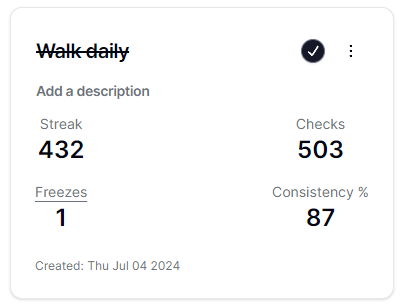
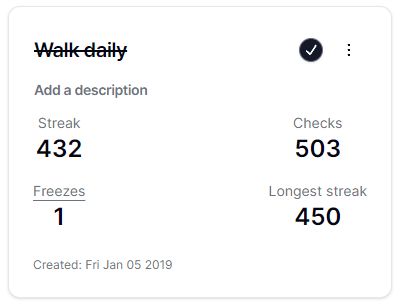
Upload files

diff --git a/src/lib/utils.ts b/src/lib/utils.ts
@@ -1,14 +1,5 @@
-import { GraphType, HabitType } from "@/data/HabitType";
-import { UserType } from "@/data/userType";
 import { type ClassValue, clsx } from "clsx";
-import {
-	differenceInDays,
-	differenceInHours,
-	format,
-	isEqual,
-	max,
-	parse,
-} from "date-fns";
+import { differenceInHours, format, parse } from "date-fns";
 import { twMerge } from "tailwind-merge";
 
 export function cn(...inputs: ClassValue[]) {
@@ -51,7 +42,6 @@ export function getMonthAndDayOfWeek(dayNumber: number) {
  */
 export function getDateByDayNumber(dayNumber: number) {
 	const parsedDate = parse(dayNumber.toString(), "DDD", new Date());
-	console.log(parsedDate);
 	return parsedDate;
 }
 
@@ -95,26 +85,6 @@ export function diffInDaysFromNow(date: Date) {
 	return Math.abs(diff);
 }
 
-/**
- * Get absolute difference a given date and today. Ceil the result for consistency calculation
- * @param givenDate
- * @returns
- */
-export function daysBetweenDatesAbsolute(givenDate: Date) {
-	const start = getDayOfYear();
-
-	const end = getDayOfYear(givenDate);
-
-	return start - end;
-}
-
-export function diffInDaysBetween(dateLeft: Date, dateRight: Date) {
-	// const diff = differenceInDays(dateLeft, dateRight);
-	const diff = Math.trunc(differenceInHours(dateLeft, dateRight) / 24) | 0;
-
-	return Math.abs(diff);
-}
-
 export function getCurrentDate() {
 	const newDate = new Date();
 	newDate.setHours(0);
@@ -123,57 +93,4 @@ export function getCurrentDate() {
 	newDate.setMilliseconds(0);
 
 	return newDate;
-}
-
-export function getActiveDays(user: UserType, habit: HabitType) {
-	// calculate total available days
-
-	// if archived, the total span would be between created - archived
-	// otherwise it would be created - now
-
-	const now = getCurrentDate();
-
-	let totalDays = 0;
-	if (habit.archived) {
-		totalDays = diffInDaysBetween(habit.created, habit.archivedDate!);
-
-		if (isEqual(habit.archivedDate!, habit.lastChecked)) totalDays += 1;
-	} else {
-		totalDays = diffInDaysFromNow(habit.created);
-		if (isEqual(now, habit.lastChecked)) totalDays += 1;
-	}
-
-	// calculate total number of paused days
-	let totalPausedDays = 0;
-	user?.pauses.forEach((pause) => {
-		console.log(totalPausedDays);
-		const daysPaused = diffInDaysBetween(pause.start, pause.end);
-		totalPausedDays += daysPaused;
-
-		if (isEqual(habit.lastChecked, pause.start) && daysPaused > 0) {
-			console.log("less 1");
-			totalPausedDays -= 1;
-		}
-
-		if (isEqual(habit.lastChecked, pause.end) && daysPaused > 0) {
-			console.log("less 2");
-			totalPausedDays -= 1;
-		}
-		console.log(pause);
-		console.log(totalPausedDays);
-	});
-
-	// if currently paused, also ignore days from when pause started to now
-	if (user?.pauseStreaks && !habit.archived) {
-		totalPausedDays += diffInDaysFromNow(user.pauseStartDate!);
-
-		if (isEqual(habit.lastChecked, user.pauseStartDate!))
-			totalPausedDays -= 1;
-	}
-
-	console.log(totalDays, totalPausedDays);
-	// subtract total paused days
-	const activeDays = totalDays - Math.max(totalPausedDays, 0);
-
-	return activeDays;
 }

diff --git a/src/components/habit-card.tsx b/src/components/habit-card.tsx
@@ -11,11 +11,13 @@ import {
 import { HabitType } from "@/data/HabitType";
 import { db } from "@/db";
 import {
+	diffInDaysFromNow,
+	getCurrentDate,
 	getDateByDayNumber,
 	getDayOfYear,
-	diffInDaysFromNow,
 } from "@/lib/utils";
 import { CheckedState } from "@radix-ui/react-checkbox";
+import { isEqual } from "date-fns";
 import { useEffect, useRef, useState } from "react";
 import { toast } from "sonner";
 import { Graph } from "./graph";
@@ -93,7 +95,7 @@ export const HabitCard = ({
 					closeButton: true,
 					description: (
 						<p>
-							You missed a day for your{" "}
+							You missed {diff - 1} day(s) for your{" "}
 							<b className="underline">{habit.name}</b> habit and
 							used up a streak freeze. If you run out, your streak
 							will reset.
@@ -148,10 +150,26 @@ export const HabitCard = ({
 			? getDateByDayNumber(lastCheckedDay)
 			: model.created;
 
+		const newStreak = checked ? model.streak + 1 : model.streak - 1;
+
+		let longestStreak = model.longestStreak;
+		let longestStreakDateSet = model.longestStreakDateSet;
+
+		const now = getCurrentDate();
+
+		if (newStreak > model.longestStreak) {
+			longestStreak = newStreak;
+			longestStreakDateSet = now;
+		} else if (isEqual(longestStreakDateSet, now)) {
+			longestStreak -= 1;
+		}
+
 		setModel({
 			...model,
 			graph,
-			streak: checked ? model.streak + 1 : model.streak - 1,
+			streak: newStreak,
+			longestStreak,
+			longestStreakDateSet,
 			streakFreezes: checked ? BaseNumberOfFreezes : initialFreezes,
 			checks: checked ? model.checks + 1 : model.checks - 1,
 			lastChecked: lastCheckedDate,
@@ -211,7 +229,7 @@ export const HabitCard = ({
 			<CardFooter>
 				<div className="flex flex-col space-y-1 text-xs text-muted-foreground">
 					<p>Created: {model.created.toDateString()}</p>
-					<p>Last checked: {model.lastChecked.toDateString()}</p>
+					{/* <p>Last checked: {model.lastChecked.toDateString()}</p> */}
 				</div>
 			</CardFooter>
 		</Card>

diff --git a/src/app/[habits]/page.tsx b/src/app/[habits]/page.tsx
@@ -32,25 +32,13 @@ export default function Home() {
 	const updatePause = async (value: boolean) => {
 		db.transaction("rw", [db.habits, db.user], async () => {
 			if (user[0]) {
-				const start = value ? getCurrentDate() : user[0].pauseStartDate;
-
-				const end = !value ? getCurrentDate() : user[0].pauseEndDate;
-
 				await db.user.where({ id: user[0].id }).modify((i) => {
-					i.pauseStartDate = start;
-					i.pauseEndDate = end;
-					i.pauses = !value
-						? [...i.pauses, { start: start!, end: end! }]
-						: [...i.pauses];
 					i.pauseStreaks = value;
 				});
 			} else {
 				await db.user.add({
 					id: "user",
 					pauseStreaks: value,
-					pauseStartDate: getCurrentDate(),
-					pauseEndDate: null,
-					pauses: [],
 				});
 			}
 		});
@@ -81,7 +69,7 @@ export default function Home() {
 		<>
 			<Login />
 			<main className="flex flex-col items-center justify-between p-4 md:py-24 space-y-8">
-				<div className="grid grid-cols-1 lg:grid-cols-2 gap-4">
+				<div className="grid grid-flow-col auto-cols-max gap-4">
 					<div className="flex justify-between items-center col-span-1 lg:col-span-2 gap-4">
 						<div className="space-y-4">
 							<h1 className="scroll-m-20 text-4xl font-extrabold tracking-tight lg:text-5xl">

diff --git a/src/components/add-habit.tsx b/src/components/add-habit.tsx
@@ -1,5 +1,6 @@
 import { HabitType } from "@/data/HabitType";
 import { db } from "@/db";
+import { getCurrentDate } from "@/lib/utils";
 import { zodResolver } from "@hookform/resolvers/zod";
 import { useState } from "react";
 import { useForm } from "react-hook-form";
@@ -24,7 +25,6 @@ import {
 	FormMessage,
 } from "./ui/form";
 import { Input } from "./ui/input";
-import { getCurrentDate } from "@/lib/utils";
 
 const formSchema = z.object({
 	name: z.string().min(1, { message: "Name is required" }),
@@ -45,13 +45,17 @@ export const AddHabit = ({ paused }: { paused: boolean }) => {
 	const addHabit = async (values: z.infer<typeof formSchema>) => {
 		const year = new Date().getFullYear();
 
+		const now = getCurrentDate();
+
 		const habit: HabitType = {
 			id: uuidv4(),
-			created: getCurrentDate(),
-			lastChecked: getCurrentDate(),
+			created: new Date(), // store time for sorting purposes
+			lastChecked: now,
 			name: values.name,
 			description: values.description,
 			streak: 0,
+			longestStreak: 0,
+			longestStreakDateSet: now,
 			checks: 0,
 			archived: false,
 			archivedDate: null,

diff --git a/src/components/habit-card-stats.tsx b/src/components/habit-card-stats.tsx
@@ -1,5 +1,6 @@
 import { HabitType } from "@/data/HabitType";
-import { diffInDaysFromNow, getActiveDays } from "@/lib/utils";
+import { db } from "@/db";
+import { useLiveQuery } from "dexie-react-hooks";
 import { Stat } from "./stat";
 import {
 	Tooltip,
@@ -7,8 +8,6 @@ import {
 	TooltipProvider,
 	TooltipTrigger,
 } from "./ui/tooltip";
-import { useLiveQuery } from "dexie-react-hooks";
-import { db } from "@/db";
 
 export const HabitCardStats = ({ habit }: { habit: HabitType }) => {
 	const user = useLiveQuery(() => db.user.toArray());
@@ -43,16 +42,7 @@ export const HabitCardStats = ({ habit }: { habit: HabitType }) => {
 			</div>
 			<div className="space-y-4">
 				<Stat title="Checks" number={habit.checks} />
-				<Stat
-					title="Consistency %"
-					number={
-						~~(
-							(habit.checks /
-								(getActiveDays(user[0], habit) + 0)) *
-							100
-						)
-					}
-				/>
+				<Stat title="Longest streak" number={habit.longestStreak} />
 			</div>
 		</>
 	);

diff --git a/src/app/page.tsx b/src/app/page.tsx
@@ -126,7 +126,7 @@ export default function Home() {
 							<div className="mt-2 hidden md:block">
 								<p>
 									Track your streaks for each habit. Along
-									with stats for completions and consistency
+									with your completions and longest streaks
 								</p>
 							</div>
 						</div>
@@ -239,7 +239,7 @@ export default function Home() {
 										your streaks
 									</p>
 								</div>
-								<div>
+								<div className="w-full flex justify-center">
 									<Image
 										src={pauseDark}
 										alt="map"
@@ -265,7 +265,7 @@ export default function Home() {
 										habit with a simple visual map
 									</p>
 								</div>
-								<div>
+								<div className="w-full flex justify-center">
 									<Image
 										src={mapDark}
 										alt="map"

diff --git a/src/data/defaultHabits.ts b/src/data/defaultHabits.ts
@@ -10,6 +10,8 @@ export const defaultHabits: HabitType[] = [
 		name: "Daily habit",
 		description: "",
 		streak: 0,
+		longestStreak: 0,
+		longestStreakDateSet: new Date(),
 		checks: 0,
 		archived: false,
 		archivedDate: null,
@@ -23,6 +25,8 @@ export const defaultHabits: HabitType[] = [
 		name: "Daily habit 2",
 		description: "Habit description",
 		streak: 5,
+		longestStreak: 0,
+		longestStreakDateSet: new Date(),
 		checks: 0,
 		archived: false,
 		archivedDate: null,

diff --git a/src/components/habit-card-title.tsx b/src/components/habit-card-title.tsx
@@ -31,7 +31,6 @@ export const HabitCardTitle = ({ props }: { props: Props }) => {
 		paused,
 	} = props;
 
-	console.log(model.graph.at(-1)!.daysChecked.at(-1), dayOfYear);
 	const isDoneForToday = model.graph.at(-1)!.daysChecked.at(-1) == dayOfYear;
 
 	const onCheckChange = (value: CheckedState) => {

diff --git a/src/data/HabitType.ts b/src/data/HabitType.ts
@@ -9,6 +9,8 @@ export type HabitType = {
 	name: string;
 	description: string;
 	streak: number;
+	longestStreak: number;
+	longestStreakDateSet: Date;
 	checks: number;
 	archived: boolean;
 	archivedDate: Date | null;

diff --git a/src/data/userType.ts b/src/data/userType.ts
@@ -1,7 +1,4 @@
 export type UserType = {
 	id: string;
 	pauseStreaks: boolean;
-	pauseStartDate: Date | null;
-	pauseEndDate: Date | null;
-	pauses: { start: Date; end: Date }[];
 };
